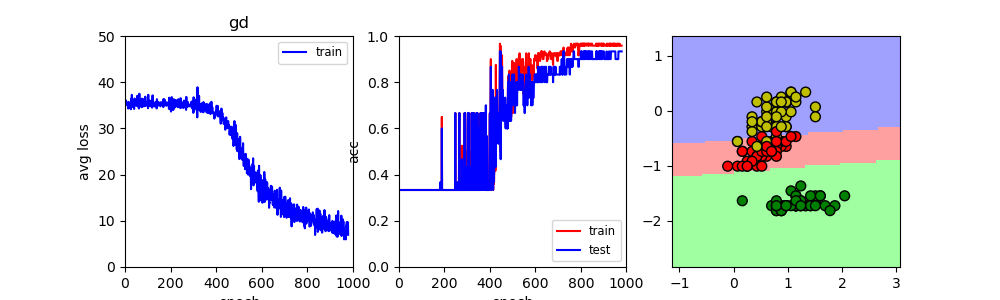
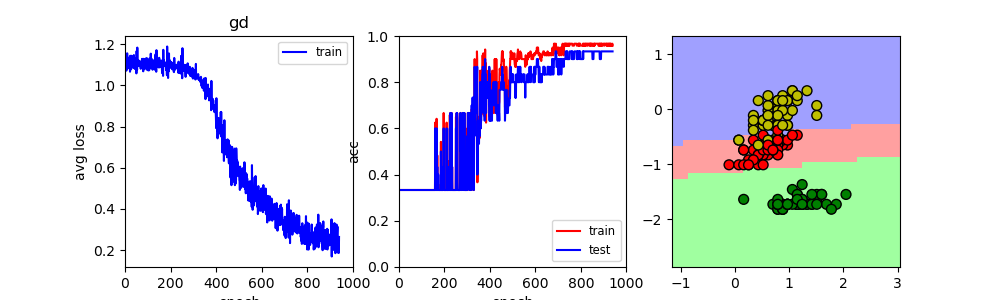
update Fnn

diff --git a/5.FNN(hw3)/Fnn_torch.py b/5.FNN(hw3)/Fnn_torch.py
@@ -1,0 +1,114 @@
+import argparse
+
+import numpy as np
+import torch
+import torch.nn as nn
+from torch.utils.data import DataLoader
+from torch.utils.data import Dataset
+
+
+def load_data(path):
+    X_train = np.loadtxt(path + "/train/x.txt")
+    Y_train = np.loadtxt(path + "/train/y.txt", dtype=int)
+    X_test = np.loadtxt(path + "/test/x.txt")
+    Y_test = np.loadtxt(path + "/test/y.txt", dtype=int)
+    return X_train, Y_train, X_test, Y_test
+
+
+class TrainSet(Dataset):
+    def __init__(self, path):
+        self.X_train = np.loadtxt(path + "/train/x.txt")
+        self.Y_train = np.loadtxt(path + "/train/y.txt", dtype=int)
+        _y = np.zeros((self.Y_train.shape[0], max(self.Y_train) + 1))
+        self.normalization()
+        for i in range(self.Y_train.shape[0]):
+            _ = int(self.Y_train[i])
+            _y[i][_] = 1
+        self.Y_train = _y
+        self.X_train = torch.tensor(self.X_train, dtype=torch.float32)
+        self.Y_train = torch.tensor(self.Y_train, dtype=torch.float32)
+        # self.X_train = torch.from_numpy(self.X_train)
+        # self.Y_train = torch.from_numpy(self.Y_train)
+
+    def get_data(self):
+        return self.X_train, self.Y_train
+
+    def getL(self):
+        return self.Y_train.shape[1]
+
+    def normalization(self):
+        # 均值方差归一化
+        mean = np.mean(self.X_train)
+        variance = np.std(self.X_train)
+        self.X_train = (self.X_train - mean) / variance
+
+    def __getitem__(self, item):
+        return self.X_train[item], self.Y_train[item]
+
+    def __len__(self):
+        return len(self.X_train)
+
+
+class FNN(nn.Module):
+    def __init__(self, opt):
+        super(FNN, self).__init__()
+        self.epoch = opt.epoch
+        self.loss_func = torch.nn.CrossEntropyLoss()
+        self.dataset = TrainSet(opt.data_path)
+        self.x, self.y = self.dataset.get_data()
+        self.L = self.dataset.getL()
+        self.train_loader = DataLoader(self.dataset, batch_size=opt.batch_size, shuffle=True)
+        self.model = self.init_model()
+        self.optimizer = torch.optim.SGD(self.model.parameters(), lr=opt.lr)
+
+    def init_model(self):
+        creat_model = nn.Sequential(
+            nn.Linear(2, 10, bias=True),
+            nn.Sigmoid(),
+            nn.Linear(10, self.L, bias=True),
+            nn.Softmax(dim=-1),
+        )
+        return creat_model
+
+    def forward(self, x):
+        x = self.model.forward(x)
+        return x
+
+    def get_acc(self, x, y):
+        x = self.x
+        y = self.y
+        T = 0
+        y_hat = self.model.forward(x)
+        for i in range(x.shape[0]):
+            predict = torch.argmax(y_hat[i])
+            if predict == torch.argmax(y[i]):
+                T += 1
+        # print(T / x.shape[0])
+        return T / x.shape[0]
+
+    def main(self):
+        self.model.train()
+        for i in range(self.epoch):
+            for j, (x, y) in enumerate(self.train_loader):
+                y_hat = self.forward(x)
+                loss = self.loss_func(y_hat, y)
+                # print(loss)
+                self.optimizer.zero_grad()
+                loss.backward()
+                self.optimizer.step()
+                acc = self.get_acc(x, y)
+                print("[{} {}] loss: {} acc:{}".format(i, j, float(loss), acc))
+
+
+if __name__ == "__main__":
+    parser = argparse.ArgumentParser(
+        description=__doc__)
+    parser.add_argument('--data_path', default='./data/Iris', help='data path')
+    parser.add_argument('--lr', default=0.05, type=float, help='learning rate')
+    parser.add_argument('--epoch', default=1000, type=int, help='epoch')
+    parser.add_argument('--batch_size', default=32, type=int, help='batch_size')
+    parser.add_argument('--lr_decay', default=0.9, type=float, help='learning rate decay')
+    parser.add_argument('--is_decay', default=True, type=bool, help='choose to use decay')
+    args = parser.parse_args()
+    fnn = FNN(args)
+    fnn.main()

diff --git a/5.FNN(hw3)/Fnn_myself.py b/5.FNN(hw3)/Fnn_myself.py
@@ -28,14 +28,14 @@ def cross_entropy(y_hat, t, c):
         _y[i][_] = 1
     ans = np.zeros((y_hat.shape[0], 1))
     for i in range(y_hat.shape[0]):
-        ans[i] = -np.sum(_y * np.log(y_hat))
+        ans[i] = -np.sum(_y[i] * np.log(y_hat[i]))
     return np.mean(ans)
 
 
 class Linear:
     def __init__(self, input_dim, output_dim, L2=0., lr=0.01):
         '''
-        :param L2:L2正则化系数
+        :param L2:L2正则化系数[0,1)
         '''
         self.x = None
         self.theta = np.zeros((input_dim, output_dim))
@@ -232,7 +232,7 @@ class FNN:
             plt.subplot(1, 3, 1)
             plt.title("gd")
             plt.xlim((0, self.epoch))
-            plt.ylim((0, 50))
+            #plt.ylim((0, 1))
             plt.xlabel("epoch")
             plt.ylabel("avg loss")
             loss_line, = plt.plot(_i, _loss, 'b')
@@ -276,8 +276,8 @@ class FNN:
 if __name__ == "__main__":
     parser = argparse.ArgumentParser(
         description=__doc__)
-    parser.add_argument('--data_path', default='./data/Iris', help='data path')
-    parser.add_argument('--lr', default=0.05, type=float, help='learning rate')
+    parser.add_argument('--data_path', default='./data/Exam', help='data path')
+    parser.add_argument('--lr', default=0.01, type=float, help='learning rate')
     parser.add_argument('--epoch', default=1000, type=int, help='epoch')
     parser.add_argument('--batch_size', default=32, type=int, help='batch_size')
     parser.add_argument('--lr_decay', default=0.9, type=float, help='learning rate decay')

diff --git a/5.FNN(hw3)/README.md b/5.FNN(hw3)/README.md
@@ -38,7 +38,7 @@
 
 注意
 
-* 模型的输入一个与数据的特征数(*self.M*)相同
+* 模型的输入与数据的特征数(*self.M*)相同
 * 模型的输出与数据集的类别数(*self.L*)相同
 * 隐藏层的输入大小应该与上一层的输出大小相同
 * 由于是分类任务，为了搭配交叉熵损失函数，所以实现的代码softmax必须为最后一层
@@ -59,16 +59,32 @@
 
 基于windows操作系统
 
-Exam数据集
+自己实现的：
+
+  Exam数据集
 
 ```powershell
 python Fnn_myself.py --data_path ./data/Exam --batch_size 32 --epoch 1000
 ```
 
-Iris数据集
+  Iris数据集
 
 ```powershell
 python Fnn_myself.py --data_path ./data/Iris --batch_size 32 --epoch 1000
+```
+
+基于pytorch的
+
+  Exam
+
+```powershell
+python Fnn_torch.py --data_path ./data/Exam --lr 0.01 --batch_size 32 --epoch 1000
+```
+
+ Iris
+
+```
+python Fnn_torch.py --data_path ./data/Exam --lr 0.05 --batch_size 32 --epoch 1000
 ```
 
 
@@ -86,3 +102,42 @@ python Fnn_myself.py --data_path ./data/Iris --batch_size 32 --epoch 1000
 添加正则化之后的结果
 
 <img src='Figure_3(l2).png'>
+
+## 6 Analysis
+
+##### 与上次作业(softmax)比较
+
+FNN由多层组成，参数量大，收敛速度较慢。理论上能够处理更复杂的问题，但是由于数据本身较简单，所以FNN的效果与单softmax模型的结果基本一致。
+
+##### 更改模型参数
+
+激活函数中sigmoid与Tanh的前向以及反向运算速度慢，若改用relu可以减少训练时间。
+
+在模型中加入Sigmoid或Tanh层，会出现梯度消失或者梯度爆炸的问题
+
+若改用LeakyRelu可有效解决该问题，若只使用会缺少了引入非线性的激活函数，使得模型不能处理较复杂的数据。(由于数据本身简单，只使用LeakyRelu也能达到较好的结果)
+
+在模型相对简单(层数与神经元数量较小)的时候不易出现过拟合的问题，将网络叠得深容易出现过拟合的问题。推测是过拟合与模型的容量有关，大的模型容易出现过拟合问题。在添加正则化之后，由助于减少过拟合的程度。
+
+##### 与pytorch实现的比较
+
+自己实现的与基于pytorch的最终结果(acc)大致相同。
+
+* 基于pytorch的运算速度与收敛速度都较快。
+
+* 基于pytorch的模型或损失函数都便于扩展
+
+分析
+
+* pytorch中的参数权重也又一定的初始化准则
+* pytorch已经实现了大量的层，以及相应的前向传播反向传播等接口，便于用户调用.
+
+基于pytorch的结果
+
+Exam:
+
+<img src='loss.png' style="zoom:67%;" >
+
+Iris:
+
+<img src='loss2.png' style="zoom:67%;" >
